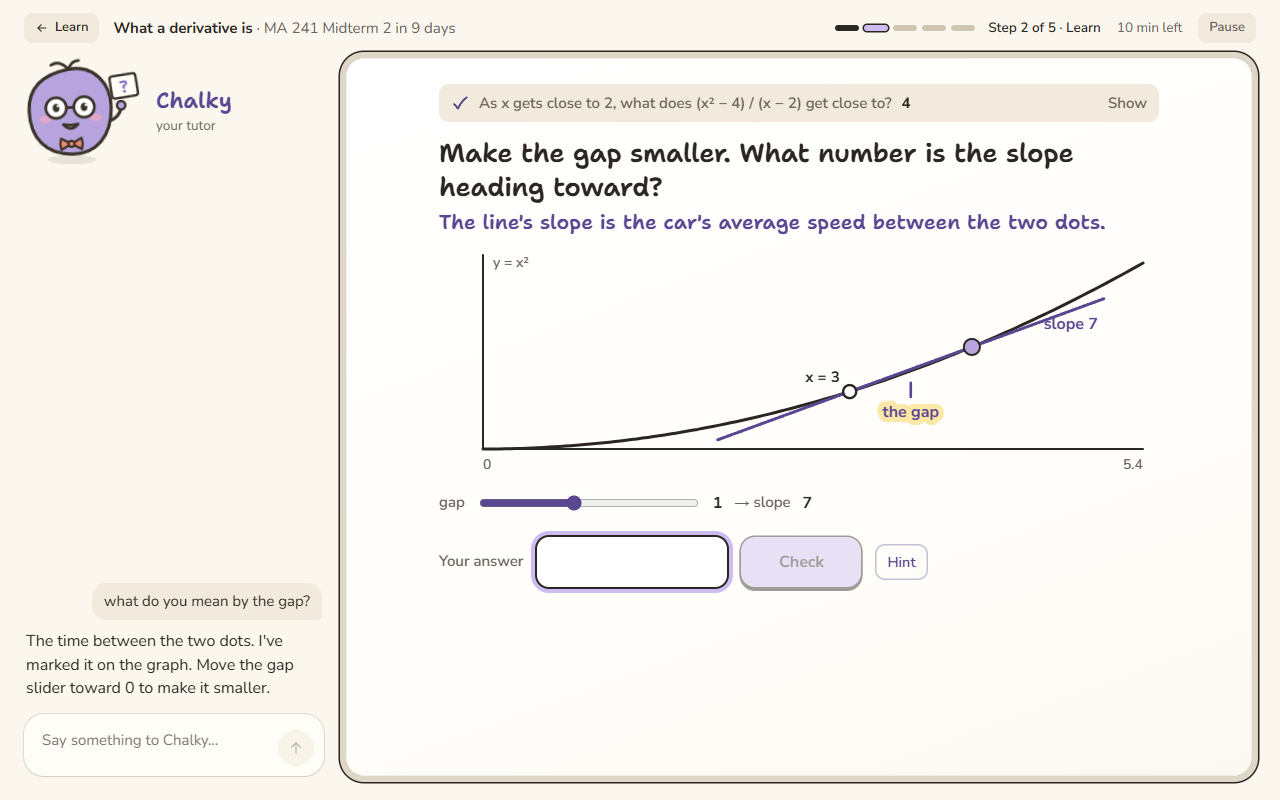
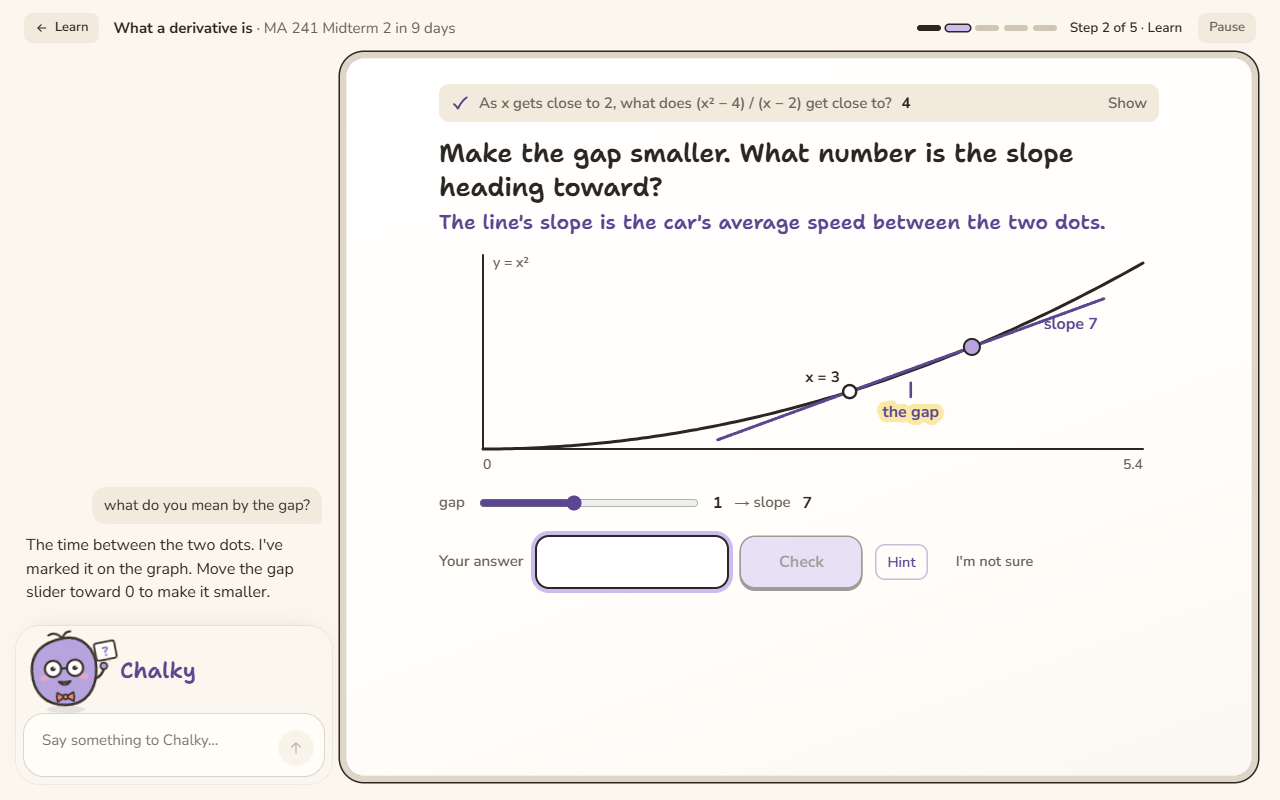
Lesson: Chalky and the chat box float over the conversation
The conversation fills the side panel. Chalky, its name and the chat box
sit on one rounded, frosted pane over its foot, so older messages scroll
under it and fade in at the top. "your tutor" is gone. The conversation
leaves room for the pane's real height, which grows as you type.

diff --git a/desktop/src/app/TutorScreen.tsx b/desktop/src/app/TutorScreen.tsx
@@ -70,7 +70,7 @@ export function TutorScreen({ initial, goal, courseLabel, topicTitle, lastRight,
   const [explored, setExplored] = useState<string[]>([]);
   const explore = useCallback((action: string) => setExplored(previous => [...previous.filter(item => item !== action), action].slice(-50)), []);
   const lock = useRef(false), mounted = useRef(true), revision = useRef(initial.updatedAt), messageId = useRef<string | null>(null);
-  const column = useRef<HTMLDivElement>(null), end = useRef<HTMLSpanElement>(null), talk = useRef<HTMLDivElement>(null);
+  const column = useRef<HTMLDivElement>(null), end = useRef<HTMLSpanElement>(null), talk = useRef<HTMLDivElement>(null), dock = useRef<HTMLDivElement>(null);
   const flushDraft = useRef<() => Promise<void>>(async () => {});
   const registerFlush = useCallback((flush: () => Promise<void>) => {
     flushDraft.current = flush;
@@ -132,6 +132,14 @@ export function TutorScreen({ initial, goal, courseLabel, topicTitle, lastRight,
     if (!(document.activeElement instanceof HTMLInputElement && document.activeElement.type === "range")) end.current?.scrollIntoView({ block: "nearest", behavior: "smooth" });
   }, [added, view.at]);
   useEffect(() => { talk.current?.scrollTo({ top: talk.current.scrollHeight }); }, [view.chat.length]);
+  // The conversation leaves room under its newest message for the pane over it, which grows as you type.
+  useEffect(() => {
+    const pane = dock.current, list = talk.current;
+    if (!pane || !list) return;
+    const fit = new ResizeObserver(() => list.style.setProperty("--dock", `${pane.offsetHeight}px`));
+    fit.observe(pane);
+    return () => fit.disconnect();
+  }, []);
 
   const pause = () => run(() => window.studi!.pauseTutorSession({ sessionId: session.sessionId }));
   const leave = async () => {
@@ -185,12 +193,14 @@ export function TutorScreen({ initial, goal, courseLabel, topicTitle, lastRight,
       </header>
       <div className="tu-wrap">
         <aside className="tu-side" aria-label="You and Chalky">
-          <div className="tu-who"><Character kind="chalky" size={112} state={chalky} /><div><b>Chalky</b><small>your tutor</small></div></div>
           <div className="tu-talk" ref={talk} role="log" aria-live="polite">
             {!view.chat.length && !closed && <p className="tu-empty">Ask me anything while you work.</p>}
             {view.chat.map((item, index) => <p key={item.id} className={`${item.kind === "student" ? "tu-you" : "tu-them"}${index < lastAsked ? " is-old" : ""}`}>{item.text}</p>)}
             {unanswered && <p className="tu-empty" role="status">Chalky is thinking…</p>}
           </div>
+          {/* Chalky and the chat box float over the bottom of the conversation, which scrolls under them. */}
+          <div className="tu-dock" ref={dock}>
+          <div className="tu-who"><Character kind="chalky" size={88} state={chalky} /><b>Chalky</b></div>
           {!closed && <form className="rd-composer inky-composer tu-say" onSubmit={event => { event.preventDefault(); void send(); }}>
             <div className="inky-composer-line">
               <textarea rows={1} aria-label="Say something to Chalky" maxLength={10000} value={message} placeholder="Say something to Chalky…"
@@ -199,6 +209,7 @@ export function TutorScreen({ initial, goal, courseLabel, topicTitle, lastRight,
               <button className="chat-send" disabled={busy || !message.trim()} aria-label="Send message"><Icon name="send" size={17} /></button>
             </div>
           </form>}
+          </div>
         </aside>
         <section className="tu-board" aria-label="The board">
           <div className="tu-col" ref={column}>

diff --git a/desktop/src/app/learn.css b/desktop/src/app/learn.css
@@ -156,12 +156,15 @@ button.lr-more:hover > span { text-decoration: underline; text-decoration-color:
 .tu-wrap { flex: 1; min-height: 0; display: grid; grid-template-columns: 300px minmax(0, 1fr); gap: 22px; padding: 2px 28px 24px 24px; }
 
 /* The side chat: Chalky, the conversation, and the box to say more. */
-.tu-side { display: flex; flex-direction: column; min-width: 0; min-height: 0; }
-.tu-who { display: flex; align-items: center; gap: 14px; padding: 4px 0 14px; }
-.tu-who .character { flex: none; margin: -6px 14px -6px -8px; }
-.tu-who b { display: block; font: 700 22px/1.2 "Shantell Sans", cursive; color: var(--ink-chalky); }
-.tu-who small { font-size: 13.5px; color: var(--tu-label); }
-.tu-talk { flex: 1; min-height: 0; display: flex; flex-direction: column; gap: 10px; padding: 0 2px 14px; overflow-y: auto; scrollbar-width: thin; }
+/* The conversation fills the panel; Chalky and the chat box sit on a frosted pane over its foot. */
+.tu-side { position: relative; display: flex; flex-direction: column; min-width: 0; min-height: 0; }
+.tu-talk { flex: 1; min-height: 0; display: flex; flex-direction: column; gap: 10px; padding: 4px 2px calc(var(--dock, 170px) + 14px); overflow-y: auto; scrollbar-width: none; -webkit-mask-image: linear-gradient(transparent, #000 32px); mask-image: linear-gradient(transparent, #000 32px); }
+.tu-dock { position: absolute; left: -8px; right: -8px; bottom: -8px; display: grid; gap: 4px; padding: 6px 8px 8px; border-radius: 24px;
+  background: color-mix(in srgb, var(--paper) 70%, transparent); -webkit-backdrop-filter: blur(14px) saturate(1.1); backdrop-filter: blur(14px) saturate(1.1);
+  box-shadow: 0 0 0 1px rgb(43 38 33 / 6%), 0 -8px 24px -18px rgb(43 38 33 / 30%); }
+.tu-who { display: flex; align-items: center; gap: 10px; padding-left: 4px; }
+.tu-who .character { flex: none; margin: -4px 0 -6px -6px; }
+.tu-who b { font: 700 22px/1.2 "Shantell Sans", cursive; color: var(--ink-chalky); }
 .tu-talk > :first-child { margin-top: auto; }
 .tu-talk p { margin: 0; overflow-wrap: anywhere; }
 .tu-you { align-self: flex-end; max-width: 92%; padding: 8px 12px; border-radius: 14px 14px 4px 14px; background: var(--blotter); font-size: 15px; line-height: 1.4; }
@@ -316,10 +319,12 @@ textarea.tu-area:focus { box-shadow: 0 0 0 2px var(--pencil), 0 0 0 6px var(--hi
 @media (max-width: 999px) {
   .tu-wrap { grid-template-columns: minmax(0, 1fr); grid-template-rows: minmax(0, 1fr) auto; gap: 16px; padding: 8px 16px 14px; }
   .tu-side { order: 2; display: grid; grid-template-columns: 76px minmax(0, 1fr) minmax(0, 1fr); align-items: center; gap: 12px; }
-  .tu-who { padding: 0; }
-  .tu-who > div:last-child { display: none; }
-  .tu-who .character { margin: 0; zoom: 0.57; }
-  .tu-talk { max-height: 76px; padding: 0; }
+  .tu-dock { display: contents; }
+  .tu-who { order: 1; padding: 0; }
+  .tu-who b { display: none; }
+  .tu-who .character { margin: 0; zoom: 0.73; }
+  .tu-talk { order: 2; max-height: 76px; padding: 0; }
+  .tu-say { order: 3; }
   .tu-talk > :not(:last-child) { display: none; }
   .tu-steps span { display: none; }
 }
